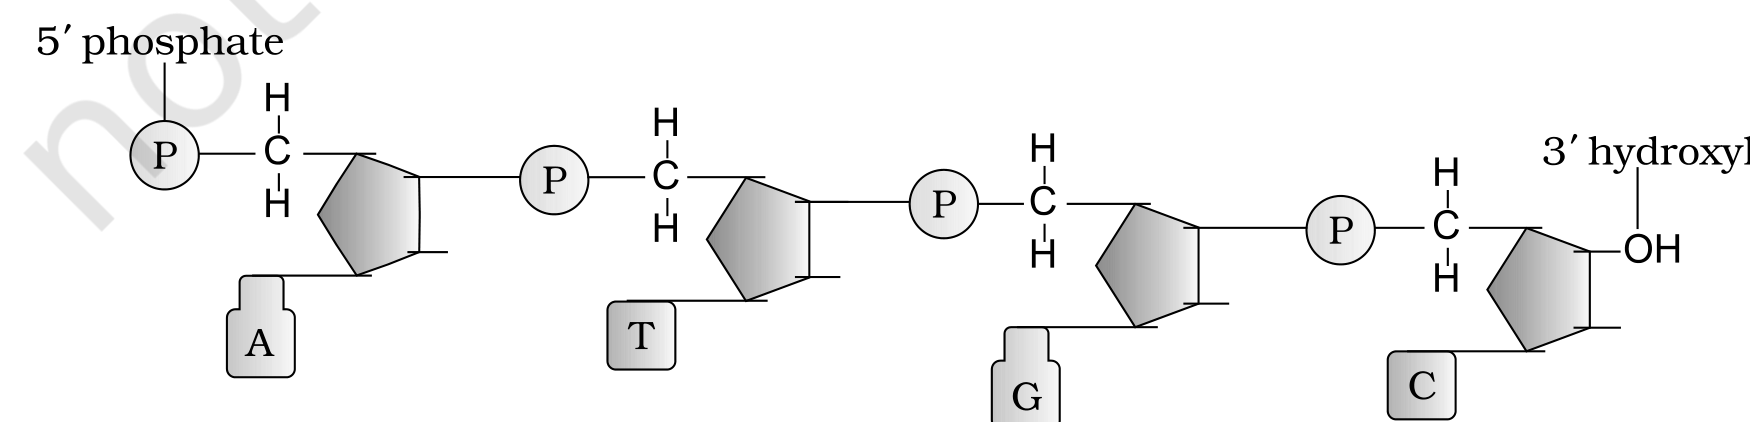
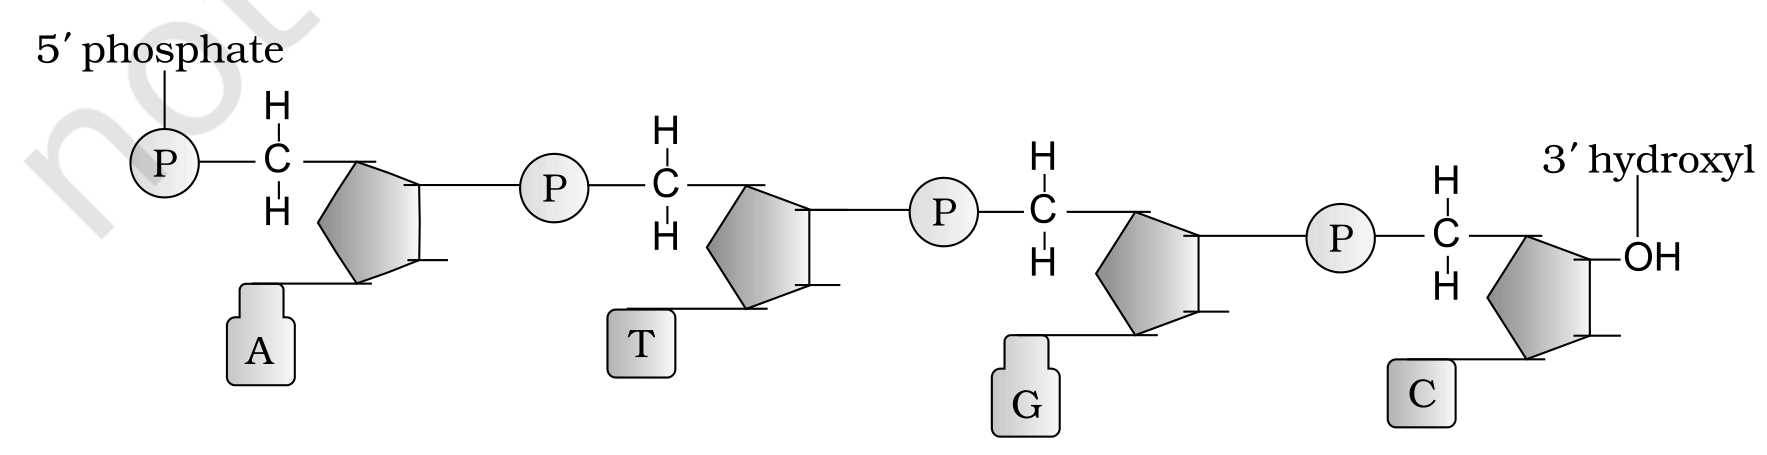
Ch5: fix clipped fig_5_1 crop, re-run 3-part figure gate
fig_5_1's rect (108,575,528,676) sat inside the artwork: the page's own
get_drawings() extent in that y-band is x 117.07-529.13, y 580.43-677.68,
so the right and bottom edges cut ~1.1pt and ~1.7pt of ink -- the tail of
the "3' hydroxyl" label and the bottom of the lowest base boxes.

Re-pinned to (108,573,532,682), ~2-4pt outside the extent, still clear of
the caption band below (caption words at y 693.8) and the last body line
above (ends y 568.2). Re-extracted at 300 dpi and confirmed by opening the
PNG. The rect comment records what pinned each edge.

Re-ran the full three-part crop gate over all 18 rects, not just the changed
one. A (word grazing) clean but words_in_rect=0 on 17 of 18, so it proved
almost nothing and B/C carried the gate. Four remaining flags dispositioned
as false positives without touching a threshold:

- fig_5_3 B T7.0: six pale gradient-fill bboxes over whitespace; a 400dpi
  strip of the band reads min=255, zero px below 240.
- fig_5_4a B L12.5/T42.7/B3.7: clipped sphere-gradient bands whose declared
  rects far exceed their visible clip; the dark px there are all covered by
  text-layer words, which is why C stayed clean.
- fig_5_13 C T:113px@(468.2,70.0): decorative leaf page furniture,
  deliberately excluded.
- fig_5_15 B T7.7/R30.4: moot, the asset is an orphan not referenced by the
  build script.

Rebuilt the 30-page PDF; check_pdf.py --strict still PASS 0 fail 0 warn --
first strict pass taken after an asset changed.
[…]

diff --git a/notes/class 12/Ch5_MolecularBasisOfInheritance/extract_figures.py b/notes/class 12/Ch5_MolecularBasisOfInheritance/extract_figures.py
@@ -45,8 +45,17 @@ RENDER_DPI = 300
 
 # (asset id, 1-indexed artwork page, clip rect x0, y0, x1, y1)
 FIGS = [
-    # p2: full-width plate under the last text line, above the caption
-    ("5_1", 2, (108, 575, 528, 676)),
+    # p2: full-width plate under the last text line, above the caption.
+    # RE-PINNED (Gate 3b figure-clipping fix): the original (108,575,528,676)
+    # box clipped real artwork -- the vector glyphs of the "3' hydroxyl" label
+    # run out to x=529.13 and the lowest base box reaches y=677.68, so the old
+    # right/bottom edges cut ~1.1pt and ~1.7pt of ink respectively.  Rect is
+    # now pinned ~2-4pt outside the drawings extent in the figure's y-band
+    # (x 117.07-529.13, y 580.43-677.68, page-number block at x<93 excluded).
+    # Bottom still stops well short of the caption band (caption drawing row
+    # starts y=688.40, the words "Figure 5.1 ..." at y=693.8), and the top
+    # clears the last body line above (ends y=568.2).
+    ("5_1", 2, (108, 573, 532, 682)),
     # p4: full-width plate at the top of the page.  Its labels ("3'", "HO",
     # "5'") are vector, not text-layer, so the drawings extent (x 89.6-514.9,
     # y 84.1-275.4) is what pins this rect; the caption starts at y=291.3.

diff --git a/notes/class 12/Ch5_MolecularBasisOfInheritance/Ch5_TRACKER.md b/notes/class 12/Ch5_MolecularBasisOfInheritance/Ch5_TRACKER.md
@@ -365,4 +365,5 @@ The deliverable is one merged PDF — **never two half-PDFs**.
 | `1a-S` scoping | `Central dogma` (p4) was mis-scoped to `1a-H` as a heading. It is a 10.5pt Light diagram label → reassigned to `1-F` as an in-figure label. |
 | repo roll-up | Done tally re-derived by counting ✅ rows (`awk`) rather than incremented: 11 of 32 (Class 11: 6, Class 12: 5). Ch5's ▶ row is excluded because Gate 1 is open. |
 | stale-instruction audit (consistency-only session, **no sweep run, no state advanced, Gate 1 still OPEN**) | Environment first: `/vercel/share/neetenv` was **absent again** (expected, §0.2) and was rebuilt — CPython 3.13.11, reportlab 5.0.1, pdfplumber OK, pymupdf 1.28.2, Pillow 12.3.0, all imports verified. Every current-state fact then **re-derived, not recalled**: **510 rows / `F001..F510` / 0 gaps / 0 dups / monotonic / 0 ticked**; census `concept` 264 · `definition` 56 · `number` 37 · `list` 33 · `question` 31 · `heading` 30 · `opener` 27 · `name` 18 · `example` 13 · `table` 1 **= 510** ✓; the **real** `_extract_labels` imported from `check_pdf.py` returns **0 labels / 0 figures / no phantom `Fig #` row** (correct pre-`1-F`); exercise-gap table machine-measured at **17 data rows / 5 GAP rows** ✓ (confirms the previous session's 16→17 correction — not reverted); H1 still `# Working Inventory (NOT FROZEN)`; no `.py`, no `.pdf`, no `assets/`; Done tally still **11/32**. **Four genuinely stale *current-state* blocks found and fixed, all of them instructions that would have misdirected the next agent:** (a) tracker **§4 was still titled "NEXT SESSION — `1a-H`"** and told the reader to append heading rows continuing from **`F231`** — an ID occupied since `1a-S`; §4 is now **"NEXT SESSION — `1-F`"** with the real figure brief, and the entire `1a-H` scoping record was moved intact to a new **§4a marked HISTORICAL / do not action** (history preserved verbatim, imperatives neutralised, acceptance criteria re-cast as met-at-close); (b) tracker **§5 listed `1a-O` as a forward note** though it closed long ago, and its `1-Z` entry described the whole session as pending — both re-labelled with state, leaving `1-F` and `1-Z` step 9 as the only live items; (c) tracker §5's **"Gate 1 is judged only after `1b`"** was misleading now that `1b` is done but Gate 1 is open — restated as "necessary but not sufficient"; (d) the inventory's **Facts-table scope note still read "after session 1a-S: prose facts of the first half only"**, which would license a future agent to think headings/openers were still missing — restated to the real 510-row whole-chapter scope, with the old note kept as an explicitly superseded quote, plus the same "necessary but not sufficient" fix to the §6-protocol Gate 1 sentence. **No inventory Facts row was touched**, no history rewritten, freeze not run, Gate 1 not closed, Pass 2 not started. |
+| Gate 3b figure-clipping fix (this session — **`fig_5_1` re-pinned and re-extracted; Gate 3b Direction 1 itself NOT started, Gate 3 still OPEN**) | Environment first: `/vercel/share/neetenv` was **absent again** (expected, §0.2), rebuilt and import-verified before anything was measured. **One real defect fixed, four audit flags dispositioned as false positives, one inherited worry proved moot.** (a) **`fig_5_1` FIXED.** Its rect was `(108, 575, 528, 676)`; the page's own `get_drawings()` extent in the figure band is x `117.07`–`529.13`, y `580.43`–`677.68`, so the old right and bottom edges were **inside the artwork** and cut ~**1.1pt** and ~**1.7pt** of ink — the tail of the `3' hydroxyl` label and the bottom of the lowest base boxes. Re-pinned to **`(108, 573, 532, 682)`**, ~2–4pt outside the extent, still clearing the caption band below (`Figure 5.1` words at y `693.8`, caption drawing row from y `688.40`) and the last body line above (ends y `568.2`). Re-extracted at 300 dpi and **confirmed by opening the PNG**: all six labels whole, `3' hydroxyl` complete to the final `l`, `G`/`C` boxes no longer sliced. The **rect comment in `extract_figures.py` records what pinned each edge**, per the skill — so a future re-audit is a two-minute read, not a re-derivation. (b) **Full three-part gate re-run over all 18 rects** (A word-grazing / B drawings-extent overflow / C border-band ink), not just the one that changed: **A clean on all 18** — but `words_in_rect=0` for 17 of them, so **A proved essentially nothing** and B and C carried the whole gate, exactly the vacuous-pass trap the skill warns about. **`fig_5_1` is now clean on all three.** (c) **Four flags dispositioned, none by raising a threshold.** `fig_5_3` **B T7.0** — the offenders are six pale yellow/green **gradient-fill bboxes** at x `88.28`–`150.69`, y `300.98`–`357.22`; a 400 dpi strip of the 7pt band above the rect reads **`min=255`, 0 px darker than 240** — declared fill rects over pure whitespace, no ink clipped. `fig_5_4a` **B L12.5 T42.7 B3.7** — hundreds of clipped sphere-gradient bands whose declared rects (x from `297.49`, y from `113.34`) far exceed their visible clip; the dark pixels found in those bands are **all covered by text-layer words** (the neighbouring prose column and the italic *…to the process?* line), which is why C stayed clean, and the plate is visibly whole inside the rect. `fig_5_13` **C T:113px@(468.2, 70.0)** — the chapter's **decorative leaf/branch page furniture**, deliberately excluded. `fig_5_15` **B T7.7 R30.4** — **moot**: `fig_5_15` is not referenced anywhere in the build script, so it is an orphan asset that never reaches the PDF. (d) **Rebuilt the 30-page PDF and re-ran `check_pdf.py --strict`: VERDICT PASS, 0 fail / 0 warn** — the 8th consecutive strict pass, and the first one taken *after* an asset changed, so it also proves the re-extraction did not disturb page geometry or the orphan-heading check. **Scope discipline:** the inherited handoff listed the Gate 3b Direction 1 read as the main event; this session did **only** the figure fix and its audit, and Direction 1 (all 646 rows traced to source) and Direction 2 (uninventoried-fact sweep) remain **entirely unstarted** — do not read this row as progress on either. |
 | tracker audit (consistency-only session, no sweep run) | Every Ch5 claim in this file, the inventory, `CHAPTER_TRACKER.md` and `CHAPTER_STATUS.md` re-derived from disk: **231 rows / F001..F231 / 0 gaps / 0 dups / 0 ticked** ✓ · `Type` census 149·28·16·15·11·9·3 = 231 ✓ · 0 heading, 0 opener, 0 figure-label rows ✓ · H1 still `# Working Inventory (NOT FROZEN)` ✓ · no `.py`, no `.pdf`, no `assets/` ✓ · source PDF `/Count 31` = 31 pp ✓ · `5.6 GENETIC CODE` banner on **p17**, confirming the mid-page seam ✓ · 10 section banners on pp. 2/6/10/10/13/17/20/21/24/27 ✓ · sub-headings on the exact pages §4 claims (5.1.1 p2, 5.1.2 p5, 5.2.1 p7, 5.2.2 p8, 5.4.1 p10, 5.4.2 p12, 5.5.1 p13, 5.5.2 p14, 5.5.3 p15), unnumbered subs p6/p7, `Central dogma` p4 ✓ · captions `Figure 5.1`–`5.16` **with 5.4a/5.4b present ⇒ 16 numbers / 17 assets** ✓ · repo Done tally re-counted = **11 ✅ rows** ✓. **Three inconsistencies found and fixed:** (a) §4 was headed "Target: 16 heading rows" above a 17-row table → retitled to state 17 lines = 16 in-body + chapter title; (b) inventory said "1 of 8" where this ledger says 9 → both now state their basis (§2 note); (c) `scratch/ch5mbi/full_text.txt` was committed but recorded nowhere → now listed in §3 as a non-deliverable working aid. **Caveat:** `/vercel/share/neetenv` is absent again (expected), so `_extract_labels` was not run under the venv — its parser logic was replicated with system `python3` and returns **0 label rows**, matching the claim; re-run it properly next session. |

diff --git a/notes/class 12/Ch5_MolecularBasisOfInheritance/Ch5_MolecularBasisOfInheritance_inventory.md b/notes/class 12/Ch5_MolecularBasisOfInheritance/Ch5_MolecularBasisOfInheritance_inventory.md
@@ -761,7 +761,7 @@ Every number above was produced by re-parsing this file's Facts table with a scr
 
 | Asset | Source artwork page | Caption | Mono | Verified | State |
 |---|---:|---|---|---|---|
-| `assets/fig_5_1.png` | 2 | Figure 5.1 — A Polynucleotide chain | yes | yes | done — final file opened after conversion; correct artwork, complete labels/leader lines, print-legible, mode `L` |
+| `assets/fig_5_1.png` | 2 | Figure 5.1 — A Polynucleotide chain | yes | yes | **RE-EXTRACTED** (Gate 3b figure-clipping fix) — the earlier rect `(108,575,528,676)` clipped ~1.1pt off the `3' hydroxyl` label and ~1.7pt off the lowest base boxes; re-pinned to `(108,573,532,682)` from the drawings extent (x 117.07–529.13, y 580.43–677.68). Final file opened again after re-conversion: correct artwork, all six labels whole, leader lines intact, print-legible, mode `L`; clean on all three parts of the crop gate |
 | `assets/fig_5_2.png` | 4 | Figure 5.2 — Double stranded polynucleotide chain | yes | yes | done — page-break caption resolved to artwork on p4; final file opened after conversion |
 | `assets/fig_5_3.png` | 4 | Figure 5.3 — DNA double helix | yes | yes | done — final file opened after conversion. **Caption corrected:** this row previously read "Central dogma", which did not match the asset (the artwork is the helix + A-T / G-C base-pair legend). The central-dogma schematic is a separate, unnumbered plate — see the row below. |
 | `assets/fig_5_central_dogma.png` | 4 | *(unnumbered in NCERT)* — Central dogma schematic at the foot of p4 | yes | yes | done — bonus asset, no NCERT figure number; carries the `replication` / `transcription` / `translation` / `Central dogma` labels |
